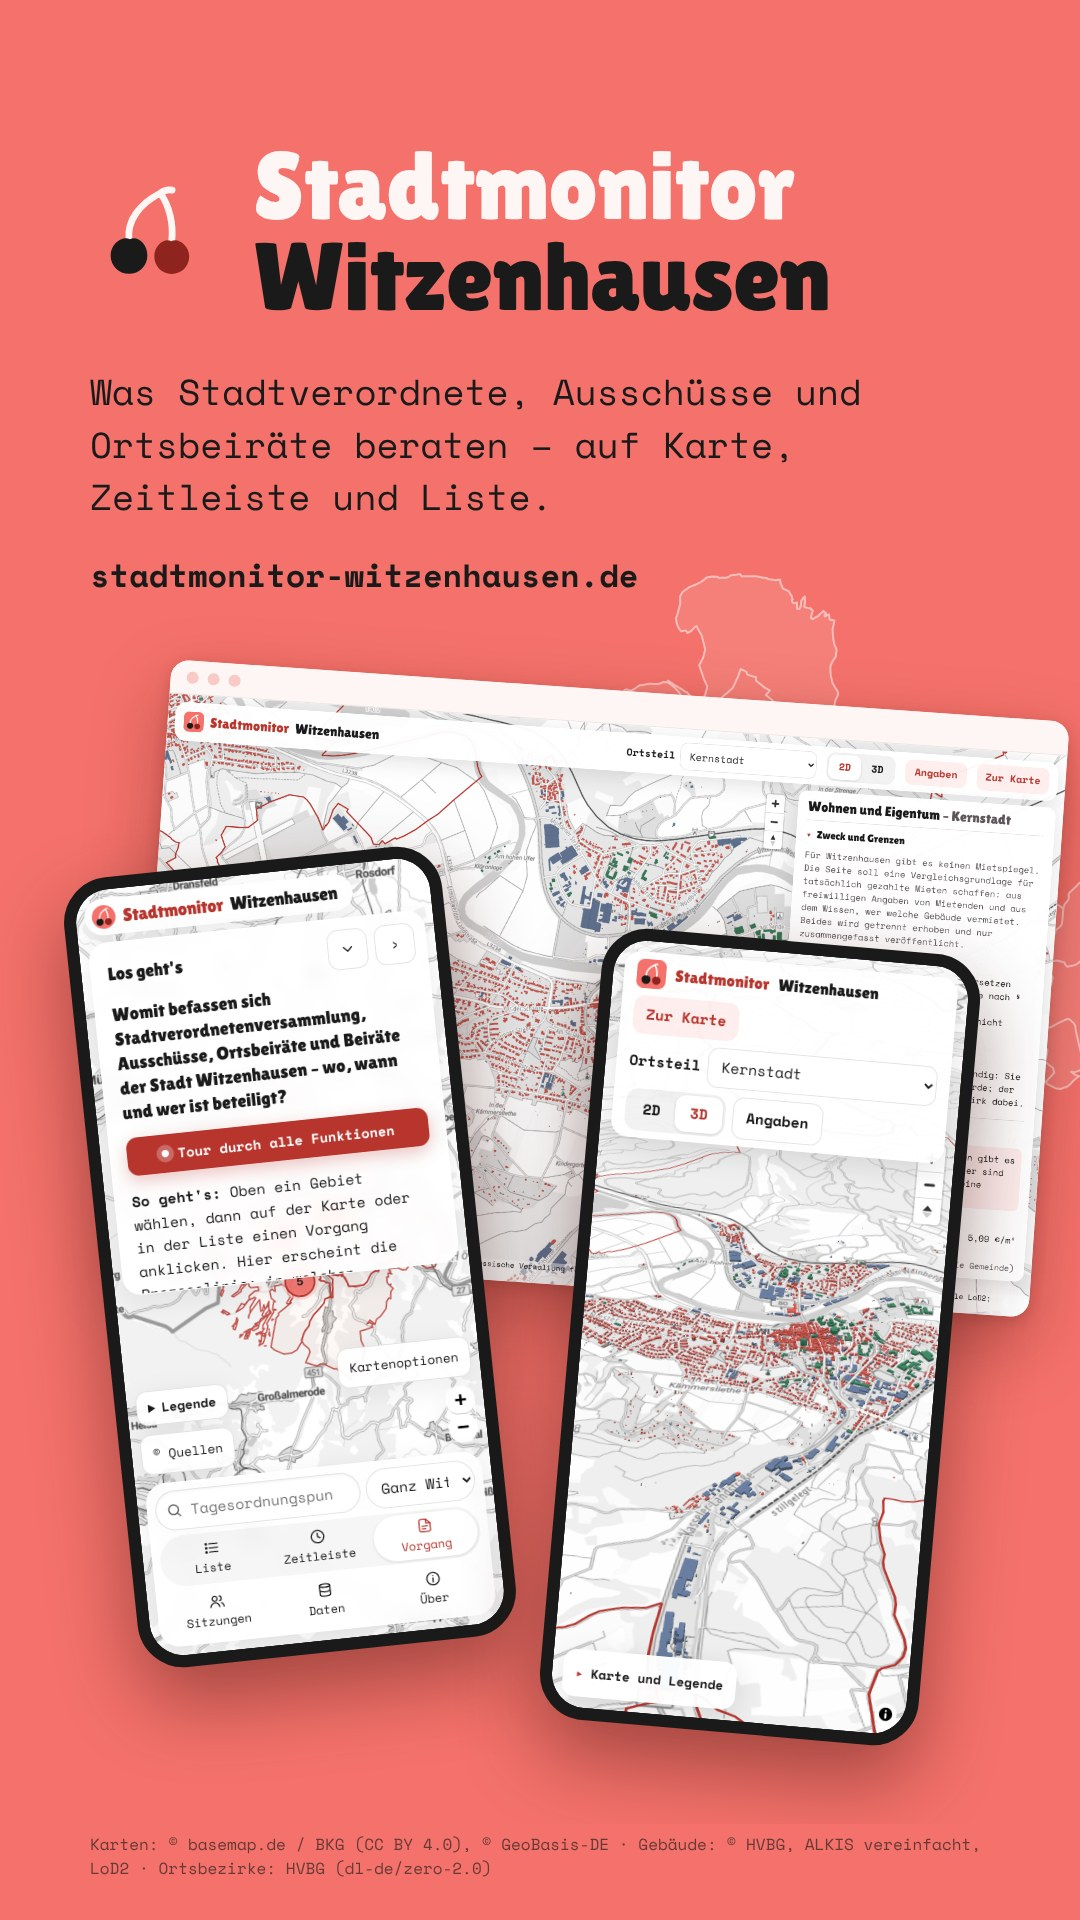
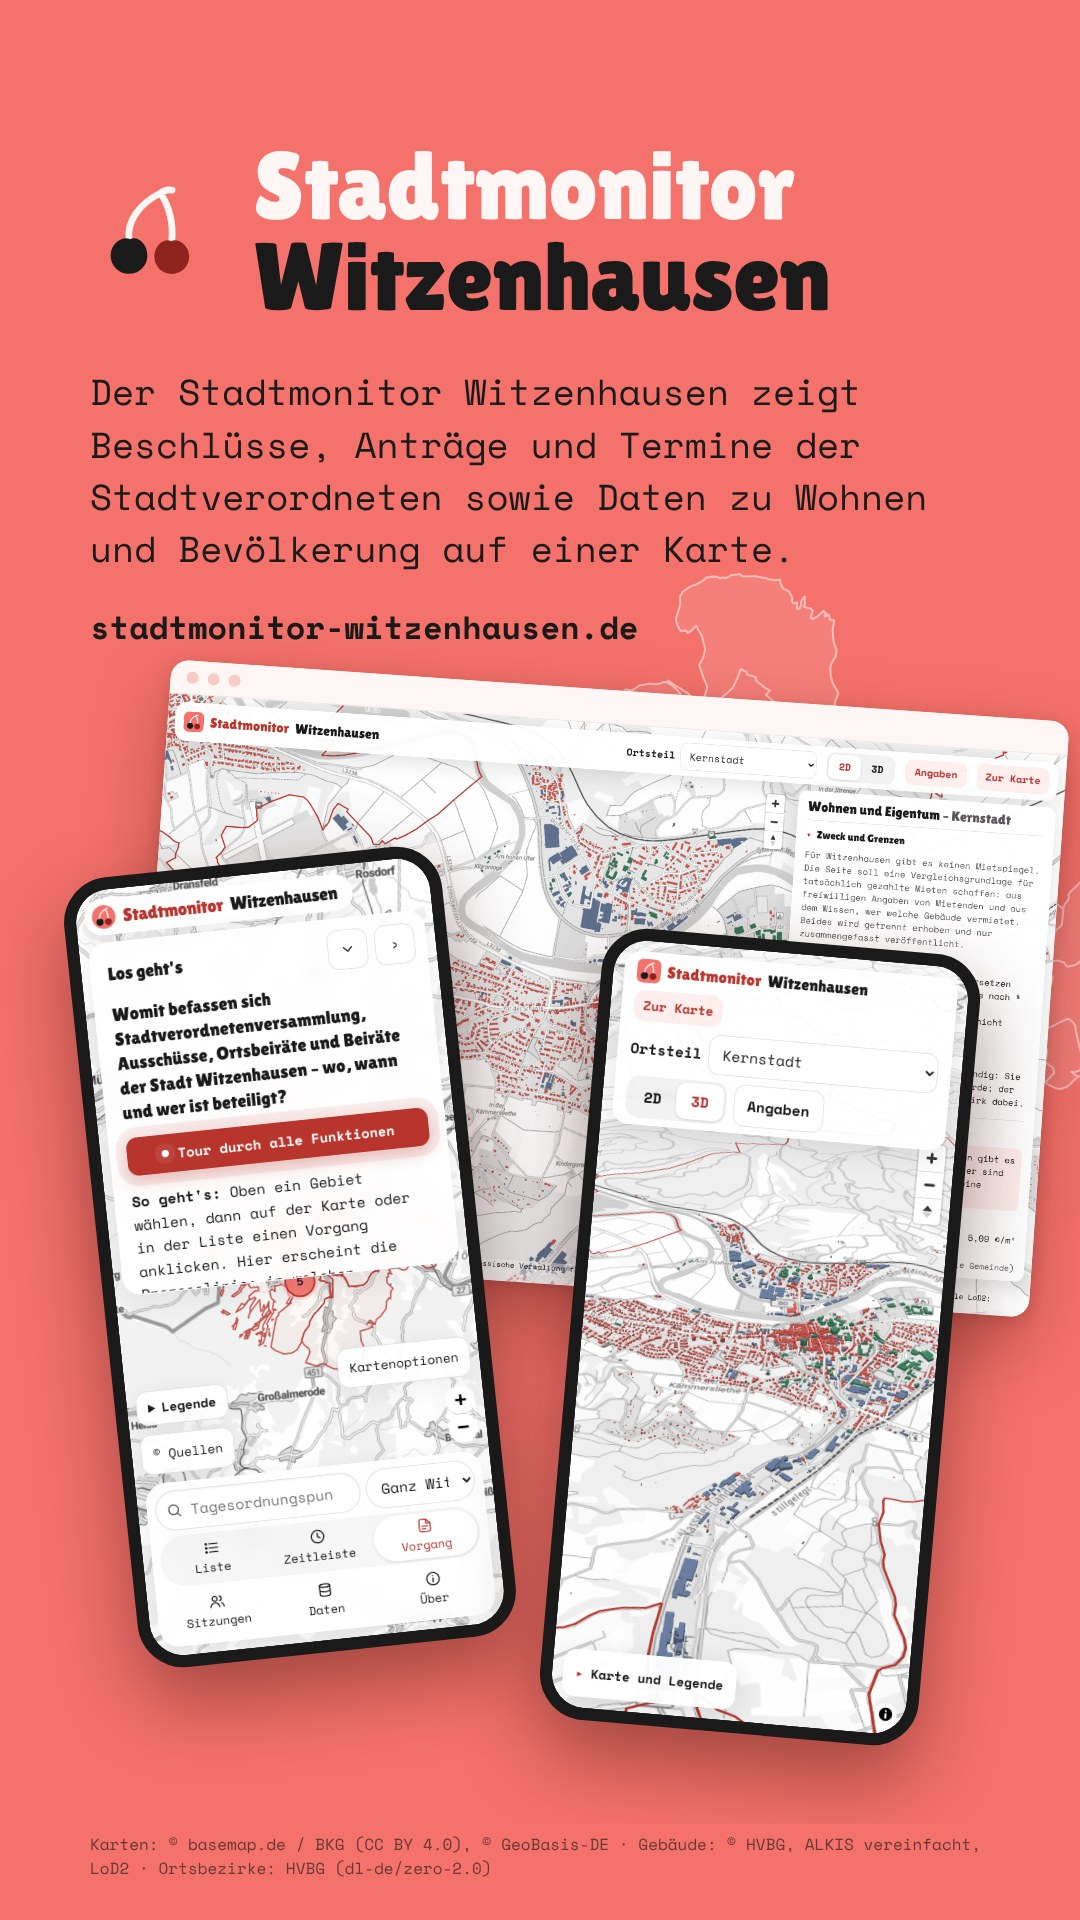
Teilen im Hauptmenü; neuer Satz auf Vorschaubild und Motiven
- Hauptmenü der Karte: „Teilen“ mit eigenem Symbol (Pfeil aus Kasten) führt
  zu /teilen/; auf dem Desktop mit Beschriftung, bei mittlerer Breite als
  Symbol, auf dem Handy in der unteren Leiste; auch im Hinweis ohne
  JavaScript verlinkt
- Satz auf Vorschaubild und Motiven: „Der Stadtmonitor Witzenhausen zeigt
  Beschlüsse, Anträge und Termine der Stadtverordneten sowie Daten zu
  Wohnen und Bevölkerung auf einer Karte.“ (Wunsch vom 10.11.2026);
  Vorschaubild etwas dichter gesetzt, damit die Adresse ins Bild passt

Claude-Session: https://claude.ai/code/session_01UDSgnRHUq89hGfTuaQDQiY

Changed region(s): [[0.0611, 0.1875, 0.8556, 0.3438], [0.5806, 0.5, 0.8556, 0.625]]

diff --git a/site/index.html b/site/index.html
@@ -25,7 +25,7 @@
 </head>
 <body class="list-closed detail-open">
   <noscript><div class="noscript glass"><p><strong>Stadtmonitor</strong> zeigt die Tagesordnungen der städtischen Gremien auf Karte und Zeitleiste. Für die Karte wird JavaScript benötigt.</p>
-    <p>Die Daten gibt es auch ohne Karte: <a href="data/export/vorgaenge.json">Vorgänge (JSON)</a> · <a href="datenschutz.html">Datenschutz</a> · <a href="impressum.html">Impressum</a></p></div></noscript>
+    <p>Die Daten gibt es auch ohne Karte: <a href="data/export/vorgaenge.json">Vorgänge (JSON)</a> · <a href="datenschutz.html">Datenschutz</a> · <a href="impressum.html">Impressum</a> · <a href="teilen/">Teilen</a></p></div></noscript>
   <!-- Symbole (eigene Strichzeichnungen, 24er-Raster) -->
   <svg width="0" height="0" style="position:absolute" aria-hidden="true">
     <defs>
@@ -44,6 +44,7 @@
       <symbol id="i-download" viewBox="0 0 24 24"><path d="M12 4v11M7 10.5l5 5 5-5M5 20h14"/></symbol>
       <symbol id="i-flag" viewBox="0 0 24 24"><path d="M5 21V4M5 4h11.5l-2 4 2 4H5"/></symbol>
       <symbol id="i-chevron" viewBox="0 0 24 24"><path d="m6 9 6 6 6-6"/></symbol>
+      <symbol id="i-share" viewBox="0 0 24 24"><path d="M12 15V3.5M7.5 8 12 3.5 16.5 8"/><path d="M8 11H6.5A1.5 1.5 0 0 0 5 12.5v7A1.5 1.5 0 0 0 6.5 21h11a1.5 1.5 0 0 0 1.5-1.5v-7a1.5 1.5 0 0 0-1.5-1.5H16"/></symbol>
       <symbol id="i-close" viewBox="0 0 24 24"><path d="M6 6l12 12M18 6 6 18"/></symbol>
       <symbol id="i-external" viewBox="0 0 24 24"><path d="M14 4h6v6M20 4l-9 9"/><path d="M18 14v4.5a1.5 1.5 0 0 1-1.5 1.5h-11A1.5 1.5 0 0 1 4 18.5v-11A1.5 1.5 0 0 1 5.5 6H10"/></symbol>
     </defs>
@@ -76,6 +77,8 @@
           <svg class="icon" aria-hidden="true"><use href="#i-data"/></svg><span>Daten</span><svg class="icon chev" aria-hidden="true"><use href="#i-chevron"/></svg></button>
         <button type="button" class="menu-btn" id="about-open" aria-haspopup="dialog">
           <svg class="icon" aria-hidden="true"><use href="#i-info"/></svg><span>Über</span></button>
+        <a class="menu-btn" href="teilen/" title="Bilder, Wortmarke und Link zum Teilen">
+          <svg class="icon" aria-hidden="true"><use href="#i-share"/></svg><span>Teilen</span></a>
       </div>
     </nav>
 

diff --git a/site/style.css b/site/style.css
@@ -123,6 +123,7 @@ button, select, input { font: inherit; color: inherit; }
   transition: background .2s, color .2s, box-shadow .2s;
 }
 .toggle:hover, .menu-btn:hover { background: rgba(244, 114, 107, 0.08); }
+a.menu-btn { text-decoration: none; }  /* Teilen: ein Link, sieht aus wie die Menüknöpfe */
 .toggle[aria-pressed="true"] { background: var(--solid); color: var(--accent-ink); box-shadow: 0 1px 3px rgba(26, 26, 26, 0.12); }
 .menu-btn[aria-expanded="true"] { background: rgba(244, 114, 107, 0.12); color: var(--accent-ink); }
 .menu-btn .chev { width: 14px; height: 14px; transition: transform .2s; }

diff --git a/tools/vorschaubild.py b/tools/vorschaubild.py
@@ -13,7 +13,7 @@ import sys
 from pathlib import Path
 
 ROOT = Path(__file__).resolve().parent.parent
-SATZ = "Was Stadtverordnete, Ausschüsse und Ortsbeiräte beraten – auf Karte, Zeitleiste und Liste."
+SATZ = "Der Stadtmonitor Witzenhausen zeigt Beschlüsse, Anträge und Termine der Stadtverordneten sowie Daten zu Wohnen und Bevölkerung auf einer Karte."
 
 
 def _ringe(g):
@@ -49,12 +49,12 @@ def vorlage():
 @font-face{{font-family:M;font-weight:700;src:url('{schrift}/space-mono-latin-700-normal.woff2')}}
 html,body{{margin:0;width:1200px;height:630px;overflow:hidden}}
 body{{background:#f4726b;font-family:M;color:#1a1a1a;position:relative}}
-svg.k{{position:absolute;right:-30px;top:-20px}} .t{{position:absolute;left:80px;top:80px;width:620px}}
-h1{{font:400 92px/0.98 L;color:#fdf6f4;margin:30px 0 24px;letter-spacing:-1px}} h1 span{{color:#1a1a1a;display:block}}
-p{{font-size:26px;line-height:1.45;margin:0 0 28px}} .u{{font-weight:700;font-size:22px}}
+svg.k{{position:absolute;right:-30px;top:-20px}} .t{{position:absolute;left:80px;top:46px;width:640px}}
+h1{{font:400 90px/0.98 L;color:#fdf6f4;margin:18px 0 22px;letter-spacing:-1px}} h1 span{{color:#1a1a1a;display:block}}
+p{{font-size:24px;line-height:1.42;margin:0 0 22px}} .u{{font-weight:700;font-size:22px}}
 </style>
 <svg class="k" width="600" height="670" viewBox="0 0 600 670"><path d="{umrisse(20, 20, 560, 630)}" fill="#fdf6f4" fill-opacity=".14" stroke="#fdf6f4" stroke-opacity=".8" stroke-width="2" stroke-linejoin="round"/></svg>
-<div class="t"><svg viewBox="0 0 64 64" width="120" height="120" style="display:block">{marke}</svg>
+<div class="t"><svg viewBox="0 0 64 64" width="100" height="100" style="display:block">{marke}</svg>
 <h1>Stadtmonitor<span>{name}</span></h1><p>{SATZ}</p><div class="u">{adresse}</div></div>"""
 
 
